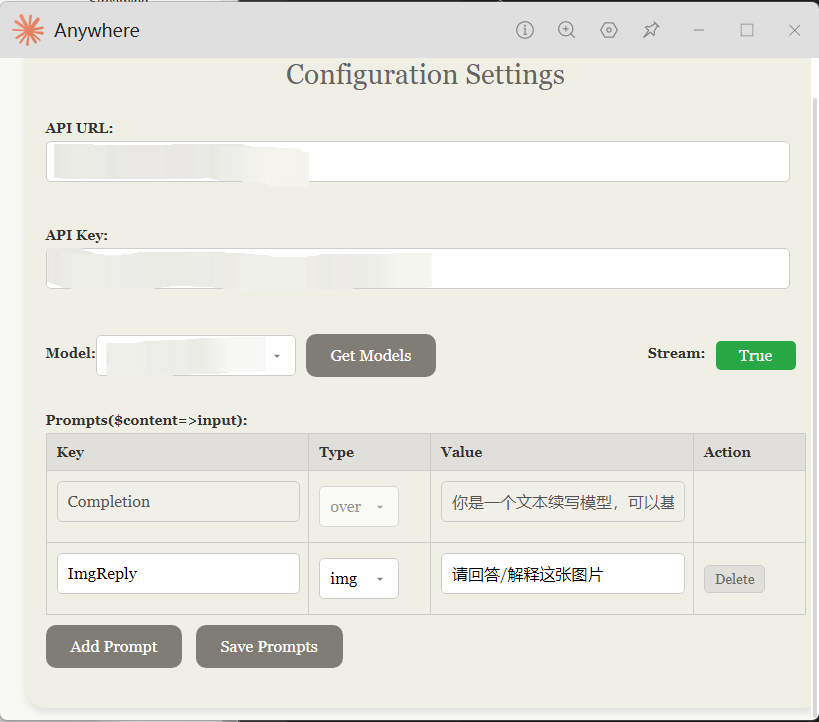
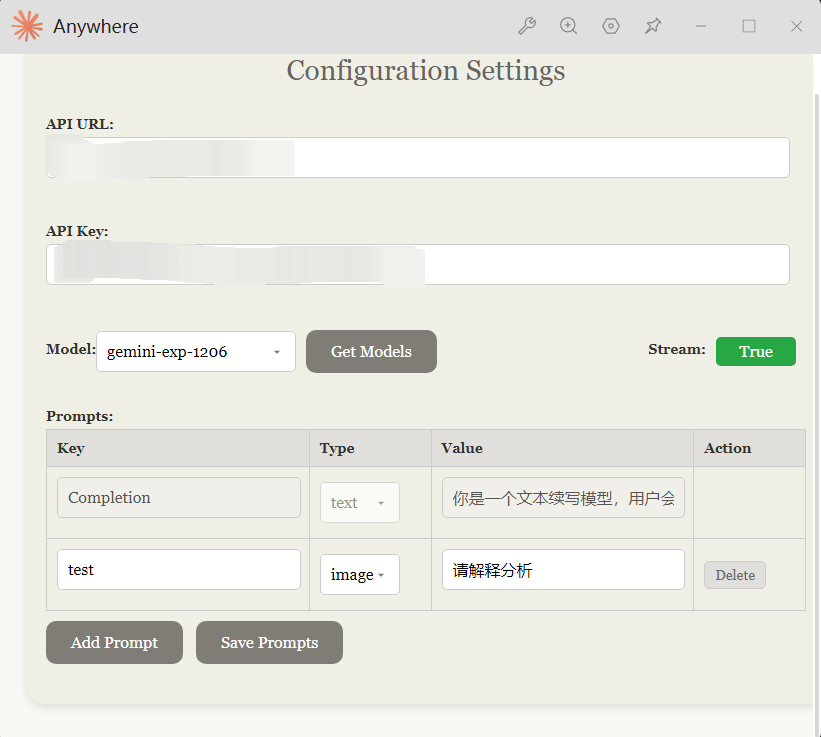
设置页面优化，使用系统prompts，修复已有提示词不能修改type的bug

diff --git a/preload.js b/preload.js
@@ -1,21 +1,18 @@
+const defaultConfig = {
+    config:{
+        apiUrl:"https://api.openai.com/v1",
+        apiKey:"sk-xxxxxx",
+        modelList:[],
+        modelSelect:"gpt-4o-mini",
+        prompts:{
+            Completion:["over",`你是一个文本续写模型，用户会输入内容，请你根据用户提供的内容完成续写。续写的内容要求符合语境语义，与前文连贯。注意续写不要重复已经提供的内容，只执行续写操作，不要有任何多余的解释。`]
+        },
+        stream:true
+    }
+}
+
 // 读取配置文件，如果不存在则返回默认配置
 function getConfig() {
-    defaultConfig = {
-        config:{
-            apiUrl:"https://api.openai.com/v1",
-            apiKey:"sk-xxxxxx",
-            modelList:[],
-            modelSelect:"gpt-4o-mini",
-            prompts:{
-                "Completion":["over",`你是一个文本续写模型，可以基于已经提供的内容，完成续写。注意续写开头不要重复的已经提供的内容，续写的内容不要在代码框内。已经完成的内容如下：
-\`\`\`
-$content
-\`\`\`
-请你进行续写：`]
-            },
-            stream:true
-        }
-    }
     const configDoc = utools.db.get("config")
     if (configDoc) {
         return configDoc.data
@@ -31,13 +28,11 @@ function updateConfig(newConfig) {
     let featuresMap = new Map(features.map(feature => [feature.code, feature]));
     // 查找prompts中的key是否在features的元素的code中，如不在则添加
     for (let key in newConfig.config.prompts) {
-        if (!featuresMap.has(key)) {
-            utools.setFeature({
-                code: key,
-                explain: key,
-                cmds: [{type:newConfig.config.prompts[key][0],label: key}]
-            });
-        }
+        utools.setFeature({
+            code: key,
+            explain: key,
+            cmds: [{type:newConfig.config.prompts[key][0],label: key}]
+        });
     }
     // 查找features的元素的code是否在prompts中的key中，如不在则删除
     for (let [key, feature] of featuresMap) {
@@ -45,6 +40,7 @@ function updateConfig(newConfig) {
             utools.removeFeature(key);
         }
     }
+    newConfig.config.prompts.Completion = defaultConfig.config.prompts.Completion
     let configDoc = utools.db.get("config")
     if (configDoc) {
         // 更新已存在的配置
@@ -54,9 +50,9 @@ function updateConfig(newConfig) {
     else {
         // 创建新的配置
         return utools.db.put({
-                _id: "config",
-                data: newConfig,
-            })
+            _id: "config",
+            data: newConfig,
+        })
     }
     
 }
@@ -84,8 +80,12 @@ utools.onPluginEnter(async ({ code, type, payload, option }) => {
                         model: config.modelSelect,
                         messages: [
                             {
+                                role: "system",
+                                content: config.prompts[code][1]
+                            },
+                            {
                                 role: "user",
-                                content: config.prompts[code][1].replace("$content", text)
+                                content: text
                             }
                         ],
                         stream: config.stream
@@ -162,6 +162,10 @@ utools.onPluginEnter(async ({ code, type, payload, option }) => {
                     body: JSON.stringify({
                         model: config.modelSelect,
                         messages: [
+                            {
+                                role:"system",
+                                content: config.prompts[code][1]
+                            },
                             {
                                 role: "user",
                                 content: [

diff --git a/setting.html b/setting.html
@@ -307,7 +307,7 @@
         </div>
 
         <div class="section">
-            <label>Prompts($content=>input):</label>
+            <label>Prompts:</label>
             <table class="prompts-table" id="prompts-table">
                 <thead>
                     <tr>
@@ -489,10 +489,10 @@
                 typeSelect.className = 'type-select';
                 const optionOver = document.createElement('option');
                 optionOver.value = 'over';
-                optionOver.text = 'over';
+                optionOver.text = 'text';
                 const optionImg = document.createElement('option');
                 optionImg.value = 'img';
-                optionImg.text = 'img';
+                optionImg.text = 'image';
                 typeSelect.add(optionOver);
                 typeSelect.add(optionImg);
                 typeSelect.value = type;

diff --git a/README.md b/README.md
@@ -8,12 +8,13 @@
 ![image](/image/4.png)
 
 ## 功能：
-1. 选中文本后，在要输入的地方调用快捷方式"Completion"（没有选中文本不会显示快捷方式），搭配快捷键更好”食用“
+1. 选中文本后，在要输入的地方调用快捷方式“Completion”（没有选中文本不会显示快捷方式），搭配快捷键更好“食用”
 2. 复制图片后，在要输入的地方调用快捷方式（未默认定义图片的快捷方式，用户可以自行定义），搭配快捷键更好”食用“
-2. 支持自定义API
-3. 支持自定义补全提示词，如果需要更新默认提示词需要手动清除utools数据（建议自定义提示词与自定义快捷键），发送文本则选择”over“类型，发送图片则选择”img“类型
+3. 支持自定义API（OenAI API 格式）
+4. 支持自定义补全提示词，如果需要更新默认提示词需要手动清除utools数据（建议自定义提示词与自定义快捷键），发送文本则选择“text”类型，发送图片则选择“img”类型
+
 ## 注意：
 1. 使用的utools内置api实现模拟输入，对虚拟机并不友好，自动输入和能导致文本重复，请不要在虚拟机中使用
-2. 使用utools内置api实现获取截图，截图默认为base64的url格式，因此推荐使用utools自带的截图工具
+2. 使用utools内置api实现获取截图，截图默认为base64的url格式，因此推荐使用utools自带的截图工具（系统自带的截图会将图片保存为文件，暂不支持读取文件）
 3. 由于AI自动回复会默认回复markdown格式，而大多markdown软件会自动补全用户格式（例如列表尾部换行后自动增加序号，而AI的回复并不会注意到这一点），两者可能产生冲突，可以使用markdown的源码模式（如果支持的话）
-4. ”自动分离为独立窗口“的设置可能导致文本生成时，设置界面无法关闭
+4. “自动分离为独立窗口”的设置可能导致文本生成时，设置界面无法关闭
